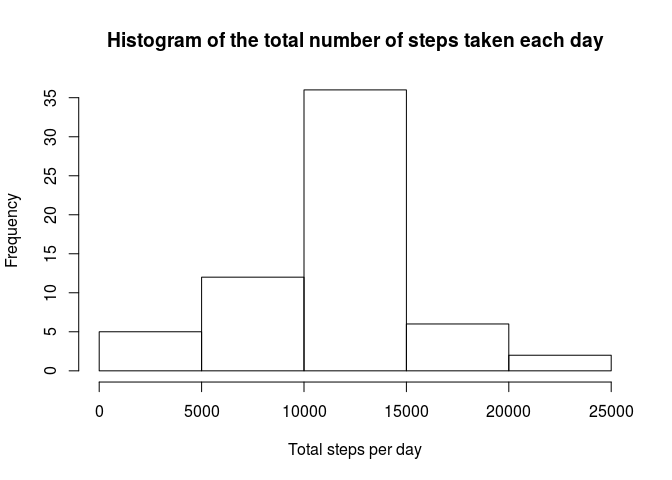
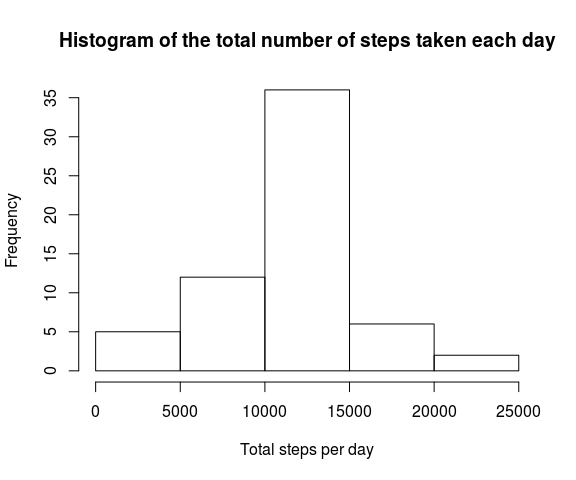
Changing plots' options

diff --git a/PA1_template.html b/PA1_template.html
@@ -55,28 +55,26 @@ if (window.hljs && document.readyState && document.readyState === "complete") {
 </div>
 
 
-<p><em>Global options</em></p>
-<pre class="r"><code>opts_chunk$set(comment=NA, fig.height=5, fig.width=6, fig.align='center')</code></pre>
 <div id="loading-and-preprocessing-the-data" class="section level3">
 <h3>Loading and preprocessing the data</h3>
 <pre class="r"><code>activity &lt;- read.csv(&quot;activity.csv&quot;)</code></pre>
 <p><strong><em>Basic information about the data</em></strong></p>
 <pre class="r"><code>dim(activity)</code></pre>
-<pre><code>[1] 17568     3</code></pre>
+<pre><code>## [1] 17568     3</code></pre>
 <pre class="r"><code>summary(activity)</code></pre>
-<pre><code>     steps                date          interval     
- Min.   :  0.00   2012-10-01:  288   Min.   :   0.0  
- 1st Qu.:  0.00   2012-10-02:  288   1st Qu.: 588.8  
- Median :  0.00   2012-10-03:  288   Median :1177.5  
- Mean   : 37.38   2012-10-04:  288   Mean   :1177.5  
- 3rd Qu.: 12.00   2012-10-05:  288   3rd Qu.:1766.2  
- Max.   :806.00   2012-10-06:  288   Max.   :2355.0  
- NA's   :2304     (Other)   :15840                   </code></pre>
+<pre><code>##      steps                date          interval     
+##  Min.   :  0.00   2012-10-01:  288   Min.   :   0.0  
+##  1st Qu.:  0.00   2012-10-02:  288   1st Qu.: 588.8  
+##  Median :  0.00   2012-10-03:  288   Median :1177.5  
+##  Mean   : 37.38   2012-10-04:  288   Mean   :1177.5  
+##  3rd Qu.: 12.00   2012-10-05:  288   3rd Qu.:1766.2  
+##  Max.   :806.00   2012-10-06:  288   Max.   :2355.0  
+##  NA's   :2304     (Other)   :15840</code></pre>
 <pre class="r"><code>str(activity)</code></pre>
-<pre><code>'data.frame':   17568 obs. of  3 variables:
- $ steps   : int  NA NA NA NA NA NA NA NA NA NA ...
- $ date    : Factor w/ 61 levels &quot;2012-10-01&quot;,&quot;2012-10-02&quot;,..: 1 1 1 1 1 1 1 1 1 1 ...
- $ interval: int  0 5 10 15 20 25 30 35 40 45 ...</code></pre>
+<pre><code>## 'data.frame':    17568 obs. of  3 variables:
+##  $ steps   : int  NA NA NA NA NA NA NA NA NA NA ...
+##  $ date    : Factor w/ 61 levels &quot;2012-10-01&quot;,&quot;2012-10-02&quot;,..: 1 1 1 1 1 1 1 1 1 1 ...
+##  $ interval: int  0 5 10 15 20 25 30 35 40 45 ...</code></pre>
 </div>
 <div id="what-is-mean-total-number-of-steps-taken-per-day" class="section level3">
 <h3>What is mean total number of steps taken per day?</h3>
@@ -122,16 +120,16 @@ qplot(x=interval,y=mean_steps,geom=&quot;line&quot;, data=activity_avg,
[1 lines of base64/hex data omitted]
 <pre class="r"><code>subset(activity_avg, mean_steps == max(mean_steps),
                     select=interval)</code></pre>
-<pre><code>Source: local data frame [1 x 1]
-
-  interval
-1      835</code></pre>
+<pre><code>## Source: local data frame [1 x 1]
+## 
+##   interval
+## 1      835</code></pre>
 </div>
 <div id="imputing-missing-values" class="section level3">
 <h3>Imputing missing values</h3>
 <p><strong><em>Total number of missing values in the dataset</em></strong></p>
 <pre class="r"><code>sum(apply(is.na(activity), 1, sum))</code></pre>
-<pre><code>[1] 2304</code></pre>
+<pre><code>## [1] 2304</code></pre>
 <p><strong><em>Filling in all of the missing values in the dataset</em></strong></p>
 <pre class="r"><code>activity_fill&lt;- activity
 

diff --git a/PA1_template.md b/PA1_template.md
@@ -1,9 +1,4 @@
 # Reproducible Research: Peer Assessment 1
-*Global options*
-
-```r
-opts_chunk$set(comment=NA, fig.height=5, fig.width=6, fig.align='center')
-```
 
 ### Loading and preprocessing the data
 
@@ -18,7 +13,7 @@ dim(activity)
 ```
 
 ```
-[1] 17568     3
+## [1] 17568     3
 ```
 
 ```r
@@ -26,14 +21,14 @@ summary(activity)
 ```
 
 ```
-     steps                date          interval     
- Min.   :  0.00   2012-10-01:  288   Min.   :   0.0  
- 1st Qu.:  0.00   2012-10-02:  288   1st Qu.: 588.8  
- Median :  0.00   2012-10-03:  288   Median :1177.5  
- Mean   : 37.38   2012-10-04:  288   Mean   :1177.5  
- 3rd Qu.: 12.00   2012-10-05:  288   3rd Qu.:1766.2  
- Max.   :806.00   2012-10-06:  288   Max.   :2355.0  
- NA's   :2304     (Other)   :15840                   
+##      steps                date          interval     
+##  Min.   :  0.00   2012-10-01:  288   Min.   :   0.0  
+##  1st Qu.:  0.00   2012-10-02:  288   1st Qu.: 588.8  
+##  Median :  0.00   2012-10-03:  288   Median :1177.5  
+##  Mean   : 37.38   2012-10-04:  288   Mean   :1177.5  
+##  3rd Qu.: 12.00   2012-10-05:  288   3rd Qu.:1766.2  
+##  Max.   :806.00   2012-10-06:  288   Max.   :2355.0  
+##  NA's   :2304     (Other)   :15840
 ```
 
 ```r
@@ -41,10 +36,10 @@ str(activity)
 ```
 
 ```
-'data.frame':	17568 obs. of  3 variables:
- $ steps   : int  NA NA NA NA NA NA NA NA NA NA ...
- $ date    : Factor w/ 61 levels "2012-10-01","2012-10-02",..: 1 1 1 1 1 1 1 1 1 1 ...
- $ interval: int  0 5 10 15 20 25 30 35 40 45 ...
+## 'data.frame':	17568 obs. of  3 variables:
+##  $ steps   : int  NA NA NA NA NA NA NA NA NA NA ...
+##  $ date    : Factor w/ 61 levels "2012-10-01","2012-10-02",..: 1 1 1 1 1 1 1 1 1 1 ...
+##  $ interval: int  0 5 10 15 20 25 30 35 40 45 ...
 ```
 
 ### What is mean total number of steps taken per day?
@@ -67,7 +62,7 @@ hist(activity_pday$total_steps, xlab= "Total steps per day",
      main="Histogram of the total number of steps taken each day")  
 ```
 
-<img src="./PA1_template_files/figure-html/unnamed-chunk-6-1.png" title="" alt="" style="display: block; margin: auto;" />
+<img src="./PA1_template_files/figure-html/unnamed-chunk-5-1.png" title="" alt="" style="display: block; margin: auto;" />
 ***Calculating mean and median total number of steps taken per day***
 
 ```r
@@ -101,7 +96,7 @@ qplot(x=interval,y=mean_steps,geom="line", data=activity_avg,
       main='Average daily activity pattern', ylab='avg steps taken')   
 ```
 
-<img src="./PA1_template_files/figure-html/unnamed-chunk-9-1.png" title="" alt="" style="display: block; margin: auto;" />
+<img src="./PA1_template_files/figure-html/unnamed-chunk-8-1.png" title="" alt="" style="display: block; margin: auto;" />
 ***Which 5-minute interval contains the maximum number of steps***
 
 ```r
@@ -110,10 +105,10 @@ subset(activity_avg, mean_steps == max(mean_steps),
 ```
 
 ```
-Source: local data frame [1 x 1]
-
-  interval
-1      835
+## Source: local data frame [1 x 1]
+## 
+##   interval
+## 1      835
 ```
 
 ### Imputing missing values
@@ -125,7 +120,7 @@ sum(apply(is.na(activity), 1, sum))
 ```
 
 ```
-[1] 2304
+## [1] 2304
 ```
 ***Filling in all of the missing values in the dataset***
 
@@ -151,7 +146,7 @@ histogram <- hist(activity_fill_pday$total_steps, xlab="Total steps per day",
              main="Histogram of the total number of steps taken each day")
 ```
 
-<img src="./PA1_template_files/figure-html/unnamed-chunk-13-1.png" title="" alt="" style="display: block; margin: auto;" />
+<img src="./PA1_template_files/figure-html/unnamed-chunk-12-1.png" title="" alt="" style="display: block; margin: auto;" />
 ***Summary of both mean and median statistics with and withouth NAs filled.***
 
 ```r
@@ -199,4 +194,4 @@ ggplot(activity_fill_plot, aes(x=interval,y=mean_steps))+
 	ggtitle("Differences in activity patterns between weekdays and weekends")
 ```
 
-<img src="./PA1_template_files/figure-html/unnamed-chunk-16-1.png" title="" alt="" style="display: block; margin: auto;" />
+<img src="./PA1_template_files/figure-html/unnamed-chunk-15-1.png" title="" alt="" style="display: block; margin: auto;" />
